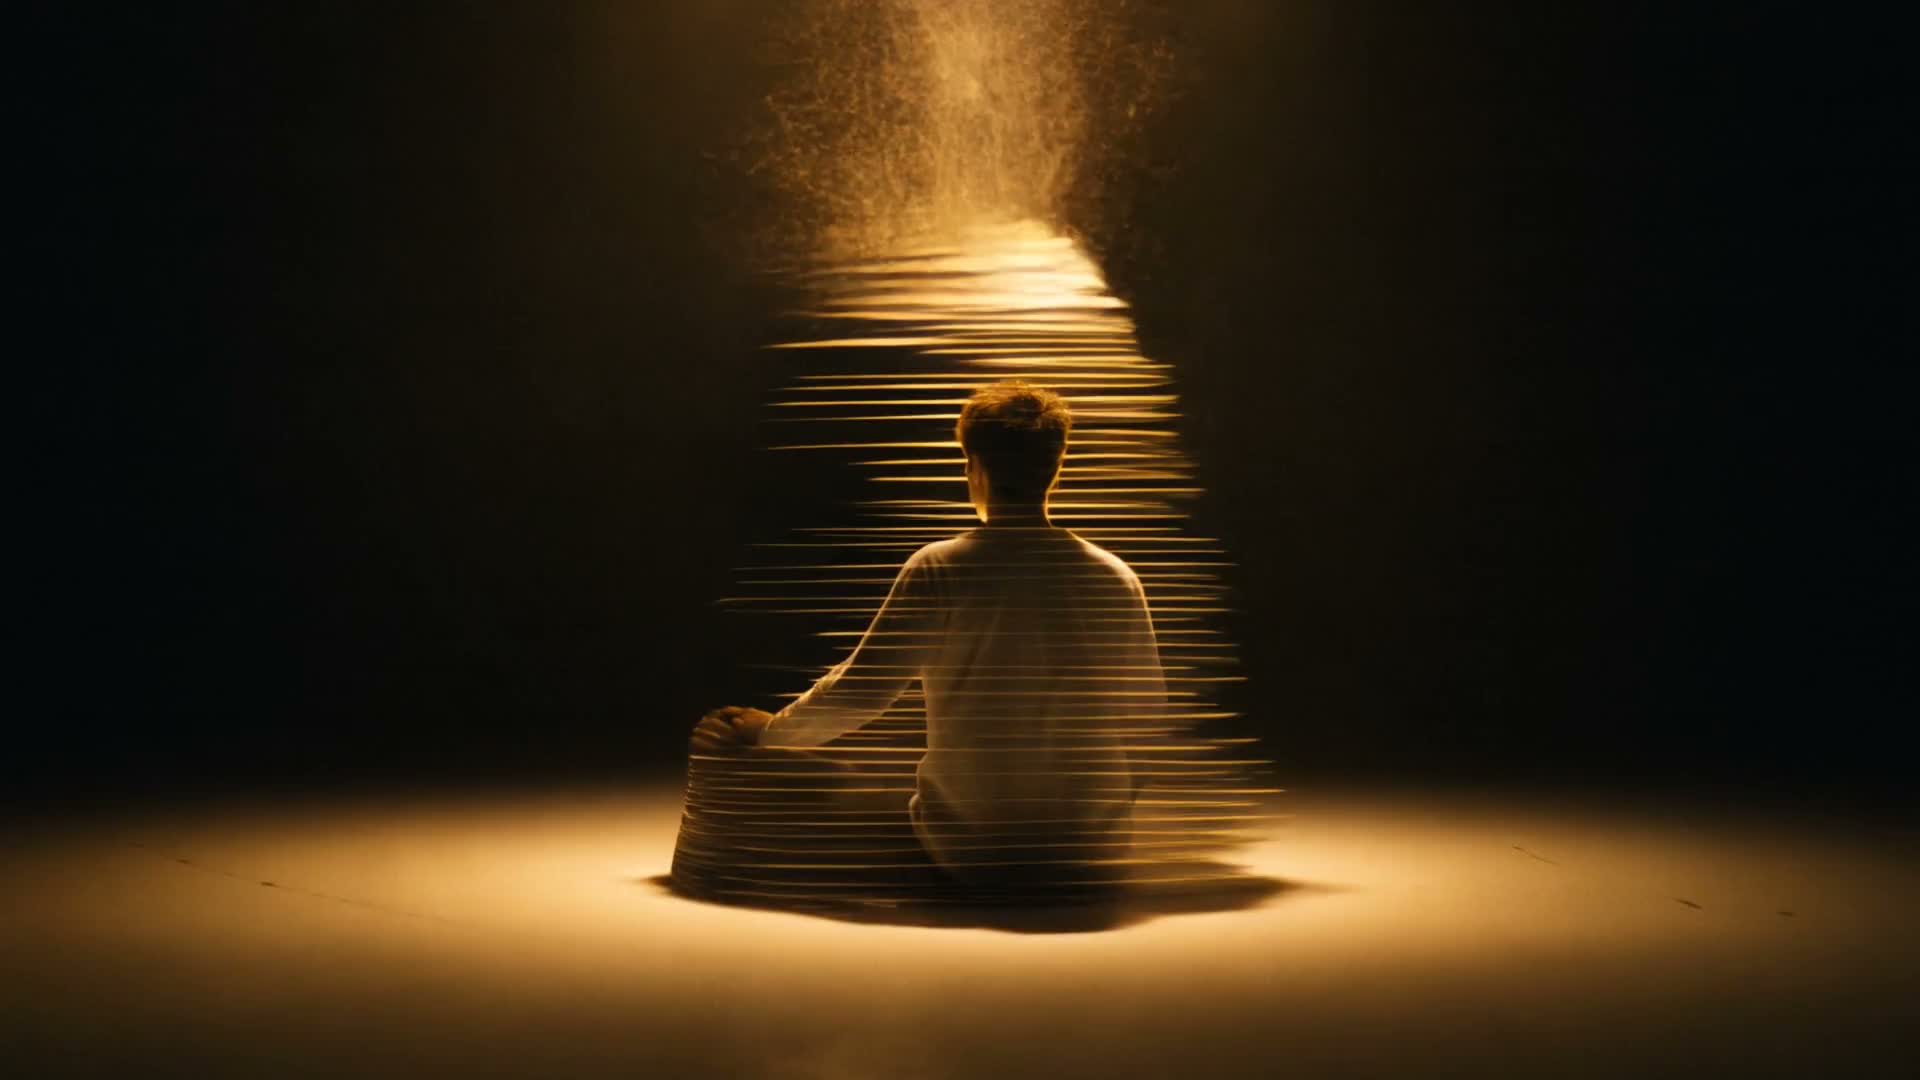
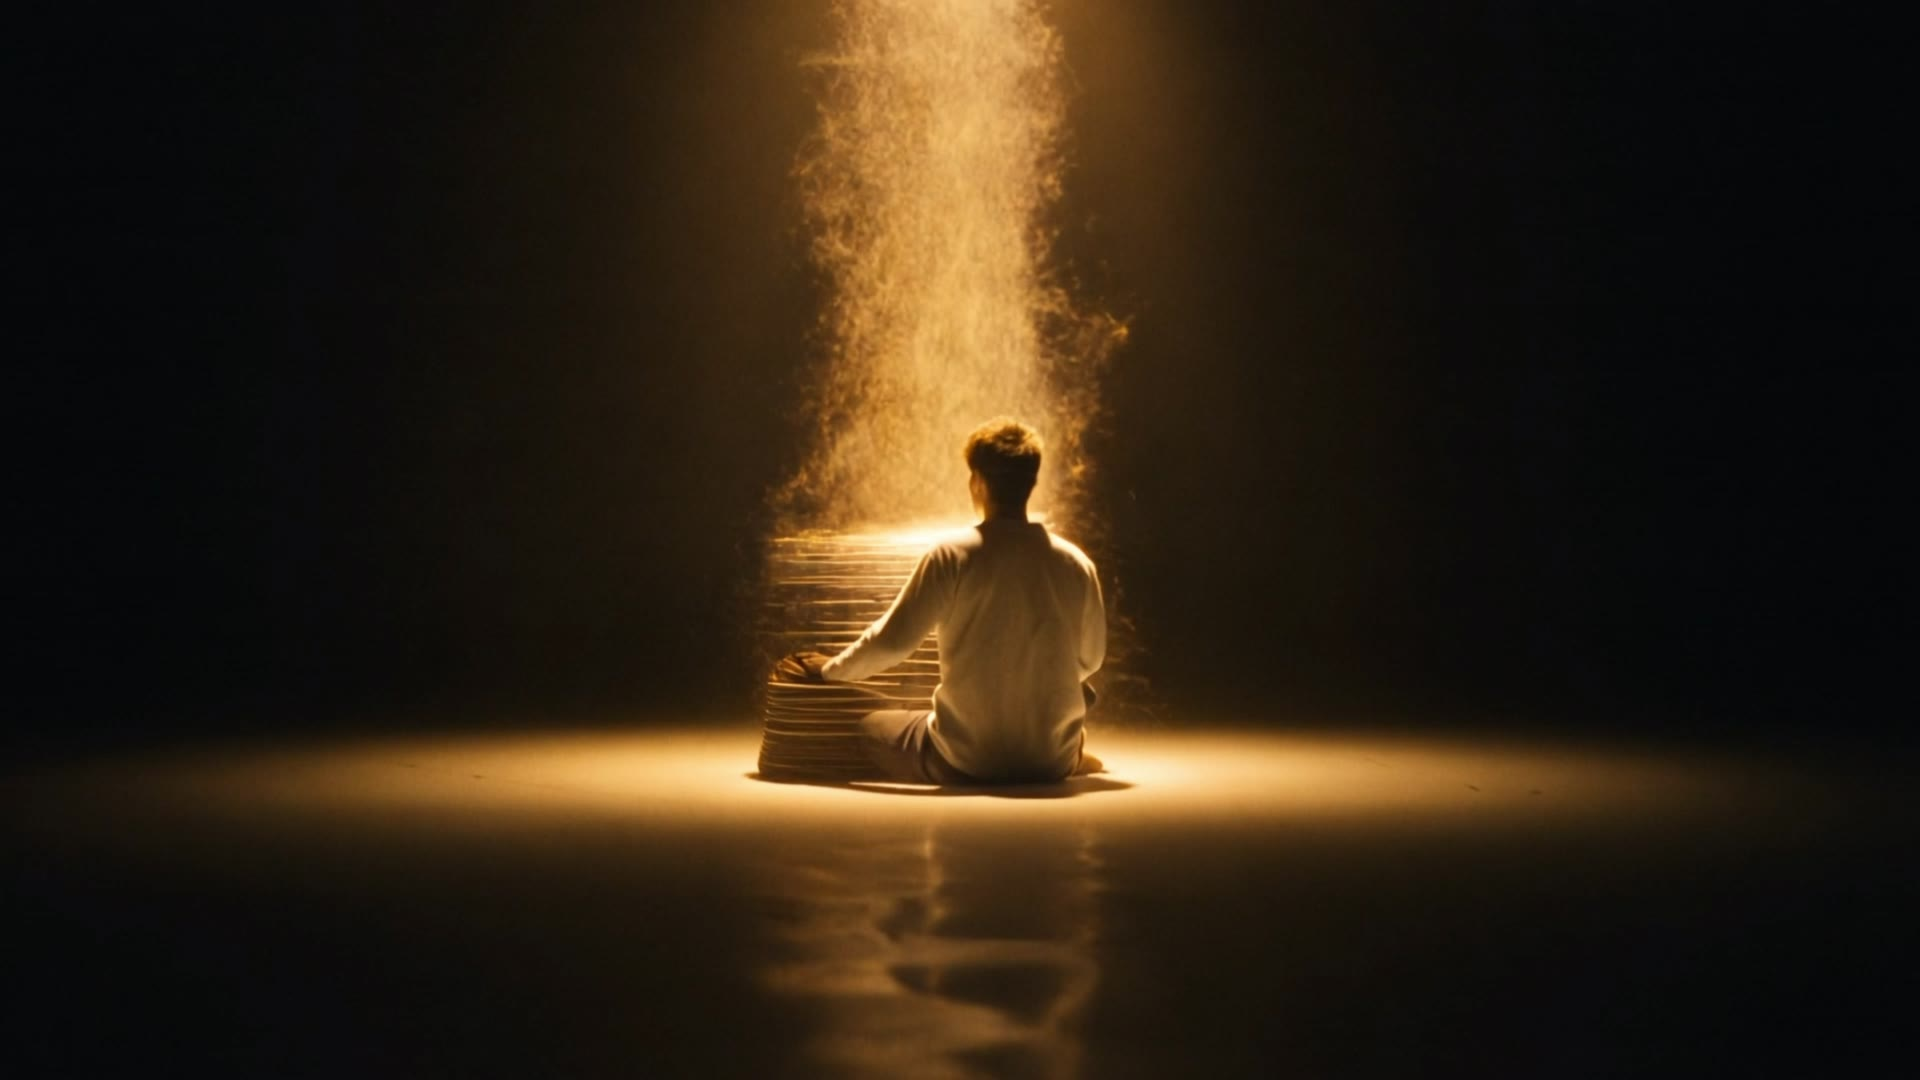
feat: user's premium 4K HEVC reel → 1080p H.264 60fps visually lossless
USER PROVIDED VIDEO:
- Untitled.MP4 from Downloads (411MB)
- 3840x2160 (4K UHD)
- HEVC codec, 60/1 fps native (no interpolation needed)
- 45.3 seconds duration
- 75 Mbps bitrate
- AAC audio

TRANSCODE STRATEGY (zero quality compromise):
- Codec: HEVC → H.264 High Profile (Chrome compat — HEVC nie wszedzie supported)
- Resolution: 4K → 1080p (visually identical for bg playback on most screens)
- FPS: 60 NATIVE preserved (NO interpolation, NO downsample)
- CRF 17 + preset slow (visually lossless for 1080p)
- Audio: stripped (-an, bg muted anyway)
- Faststart movflag (web streaming optimized)
- Lanczos scaler (best quality downsample)
- GOP 60 (1s keyframes, smooth seek-ready)

RESULTS:
- Desktop: redmind-bg-60fps.mp4 — 44MB, 1080p@60fps, 8.1 Mbps bitrate
- Mobile: redmind-bg-60fps-mobile.mp4 — 9.7MB, 720p@60fps, CRF 22
- Poster: redmind-bg-poster.jpg — 60KB (first frame downscaled)

CLEANUP:
- Removed unused: cinema-reel.mp4 (23M), cinema-reel-480.mp4 (3M),
  cinema-reel-poster.jpg, redmind-reel.mp4 (12M), redmind-reel-480.mp4 (5M),
  redmind-poster.jpg — total ~44MB saved

FullPageVideoBg now points to FINAL video files (was temp cinema-reel.mp4).

BUNDLE/ASSETS:
- public/videos/ total ~54MB (was ~88M temp)
- Mieści sie w Vercel Hobby deployment limit
- First Load JS unchanged 516kB

diff --git a/components/FullPageVideoBg.tsx b/components/FullPageVideoBg.tsx
@@ -78,11 +78,14 @@ export default function FullPageVideoBg() {
           poster="/videos/redmind-bg-poster.jpg"
         >
           <source
-            src="/videos/cinema-reel.mp4"
+            src="/videos/redmind-bg-60fps.mp4"
             type="video/mp4"
             media="(min-width: 768px)"
           />
-          <source src="/videos/cinema-reel-480.mp4" type="video/mp4" />
+          <source
+            src="/videos/redmind-bg-60fps-mobile.mp4"
+            type="video/mp4"
+          />
         </video>
       )}
 